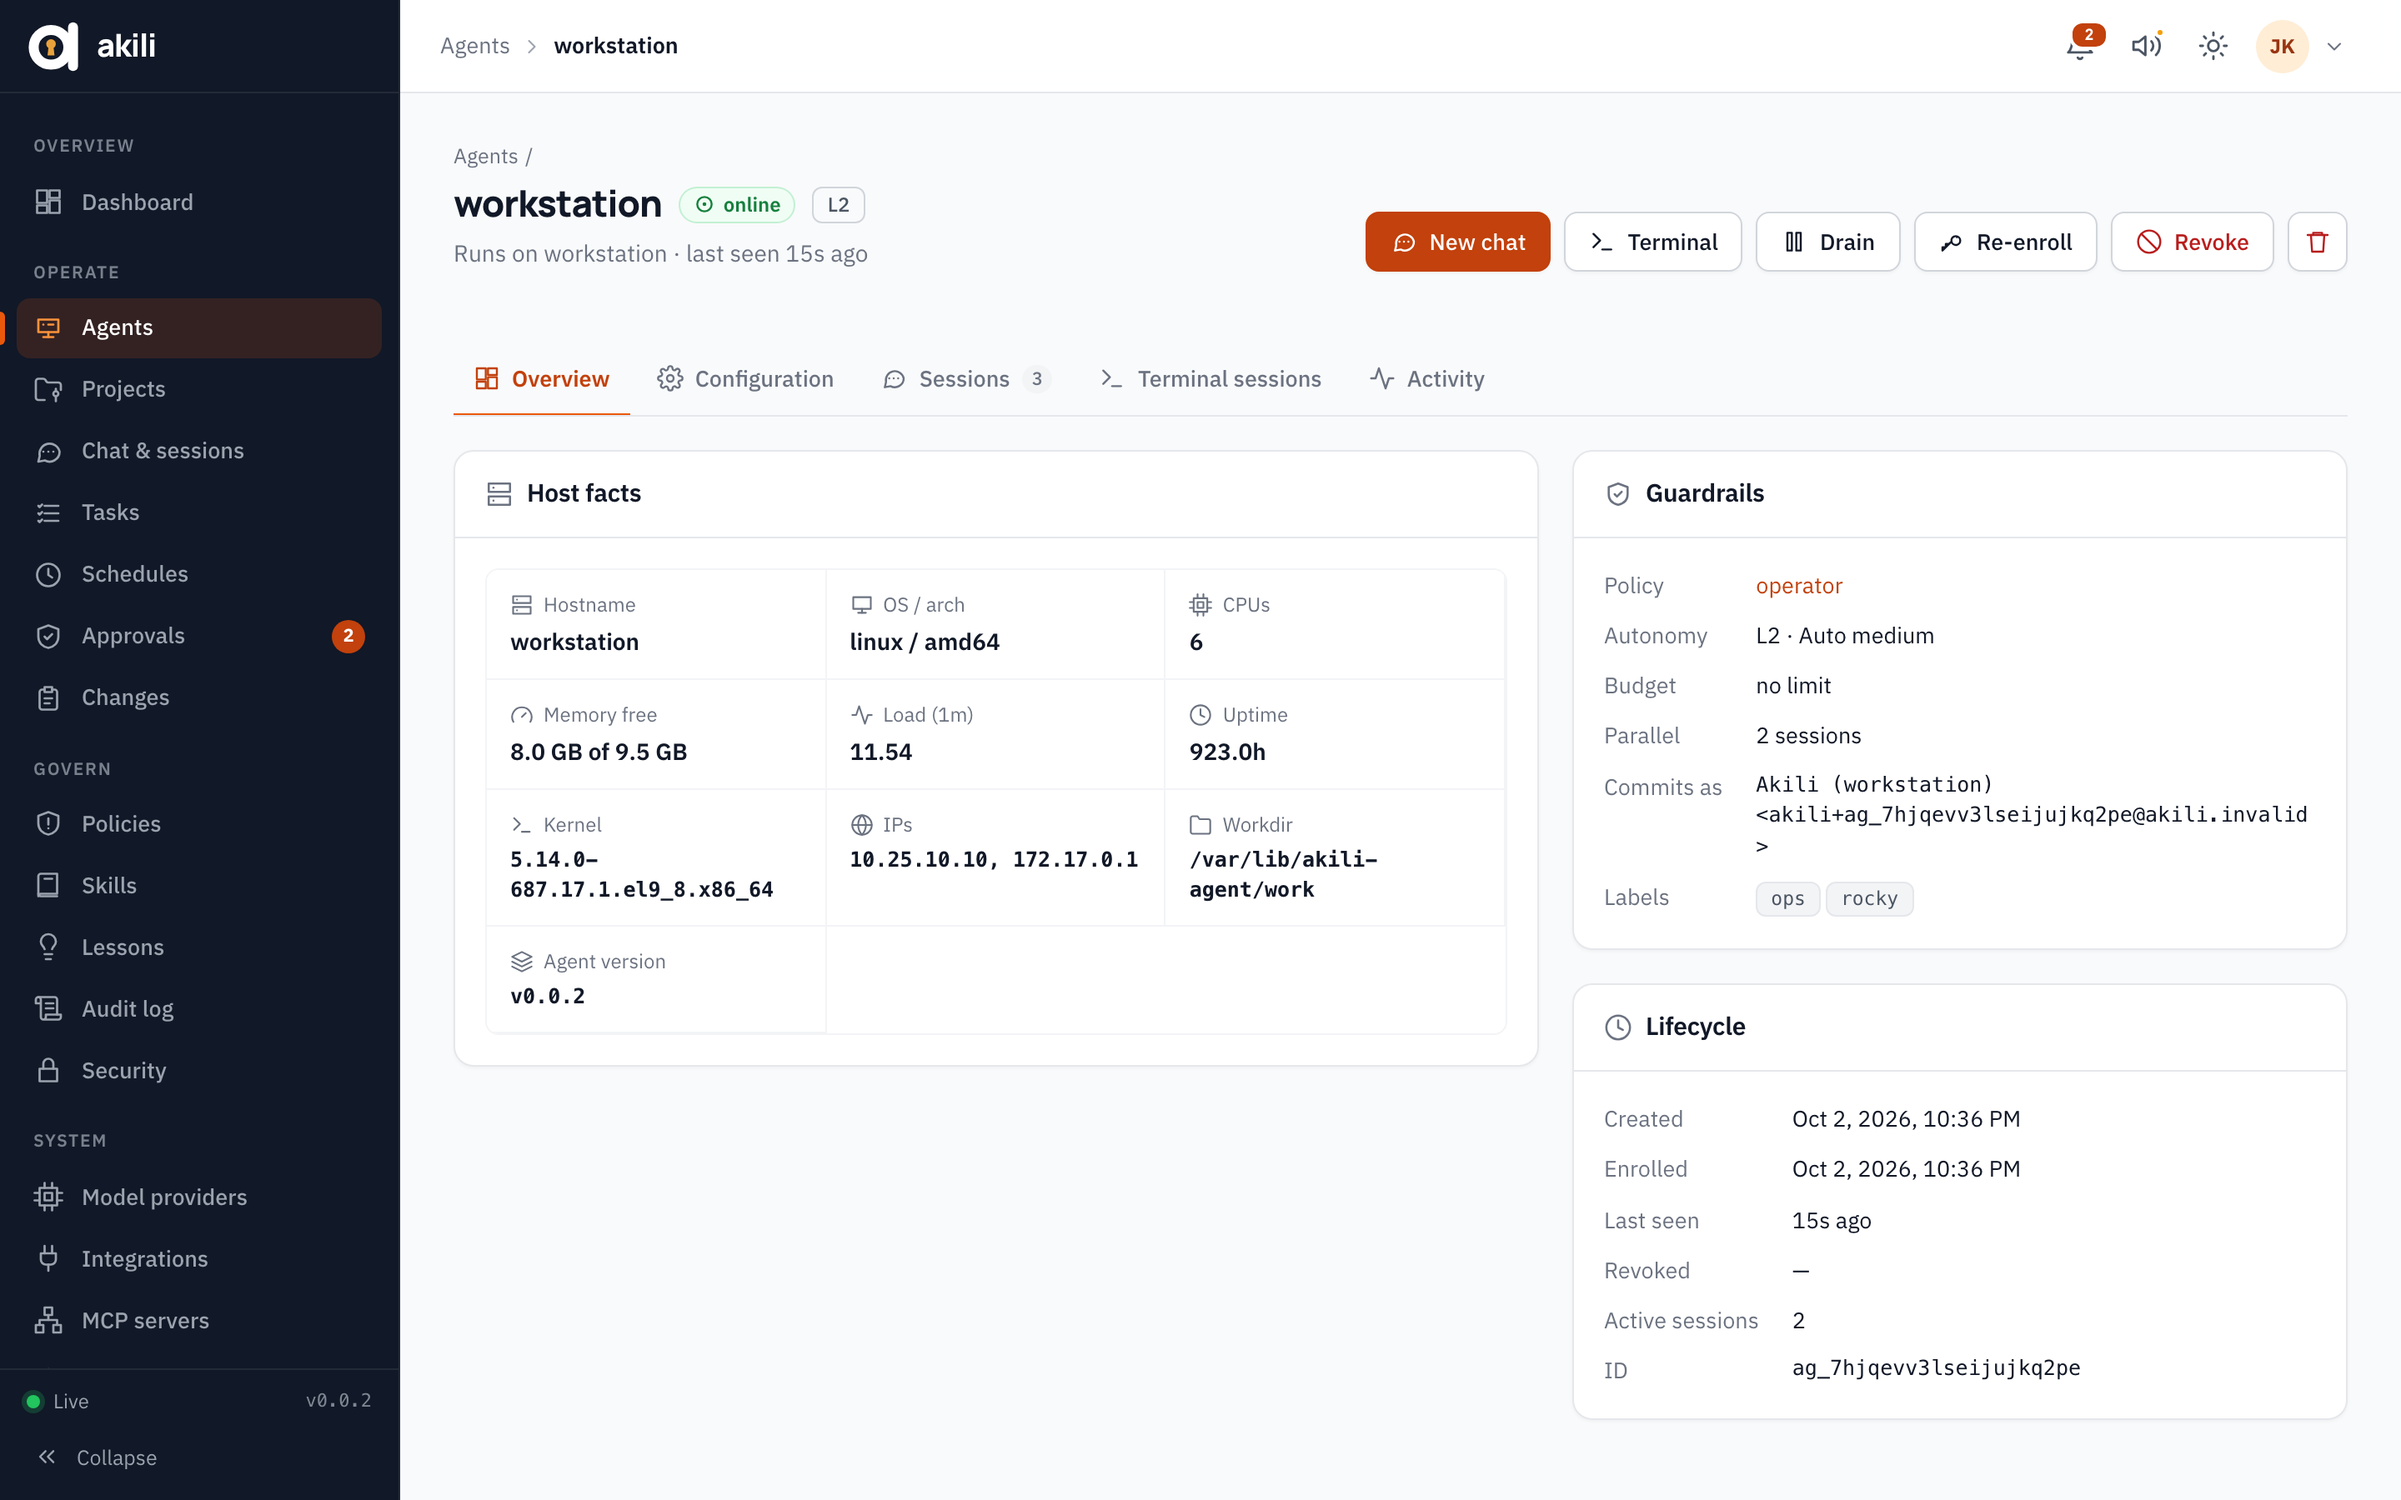
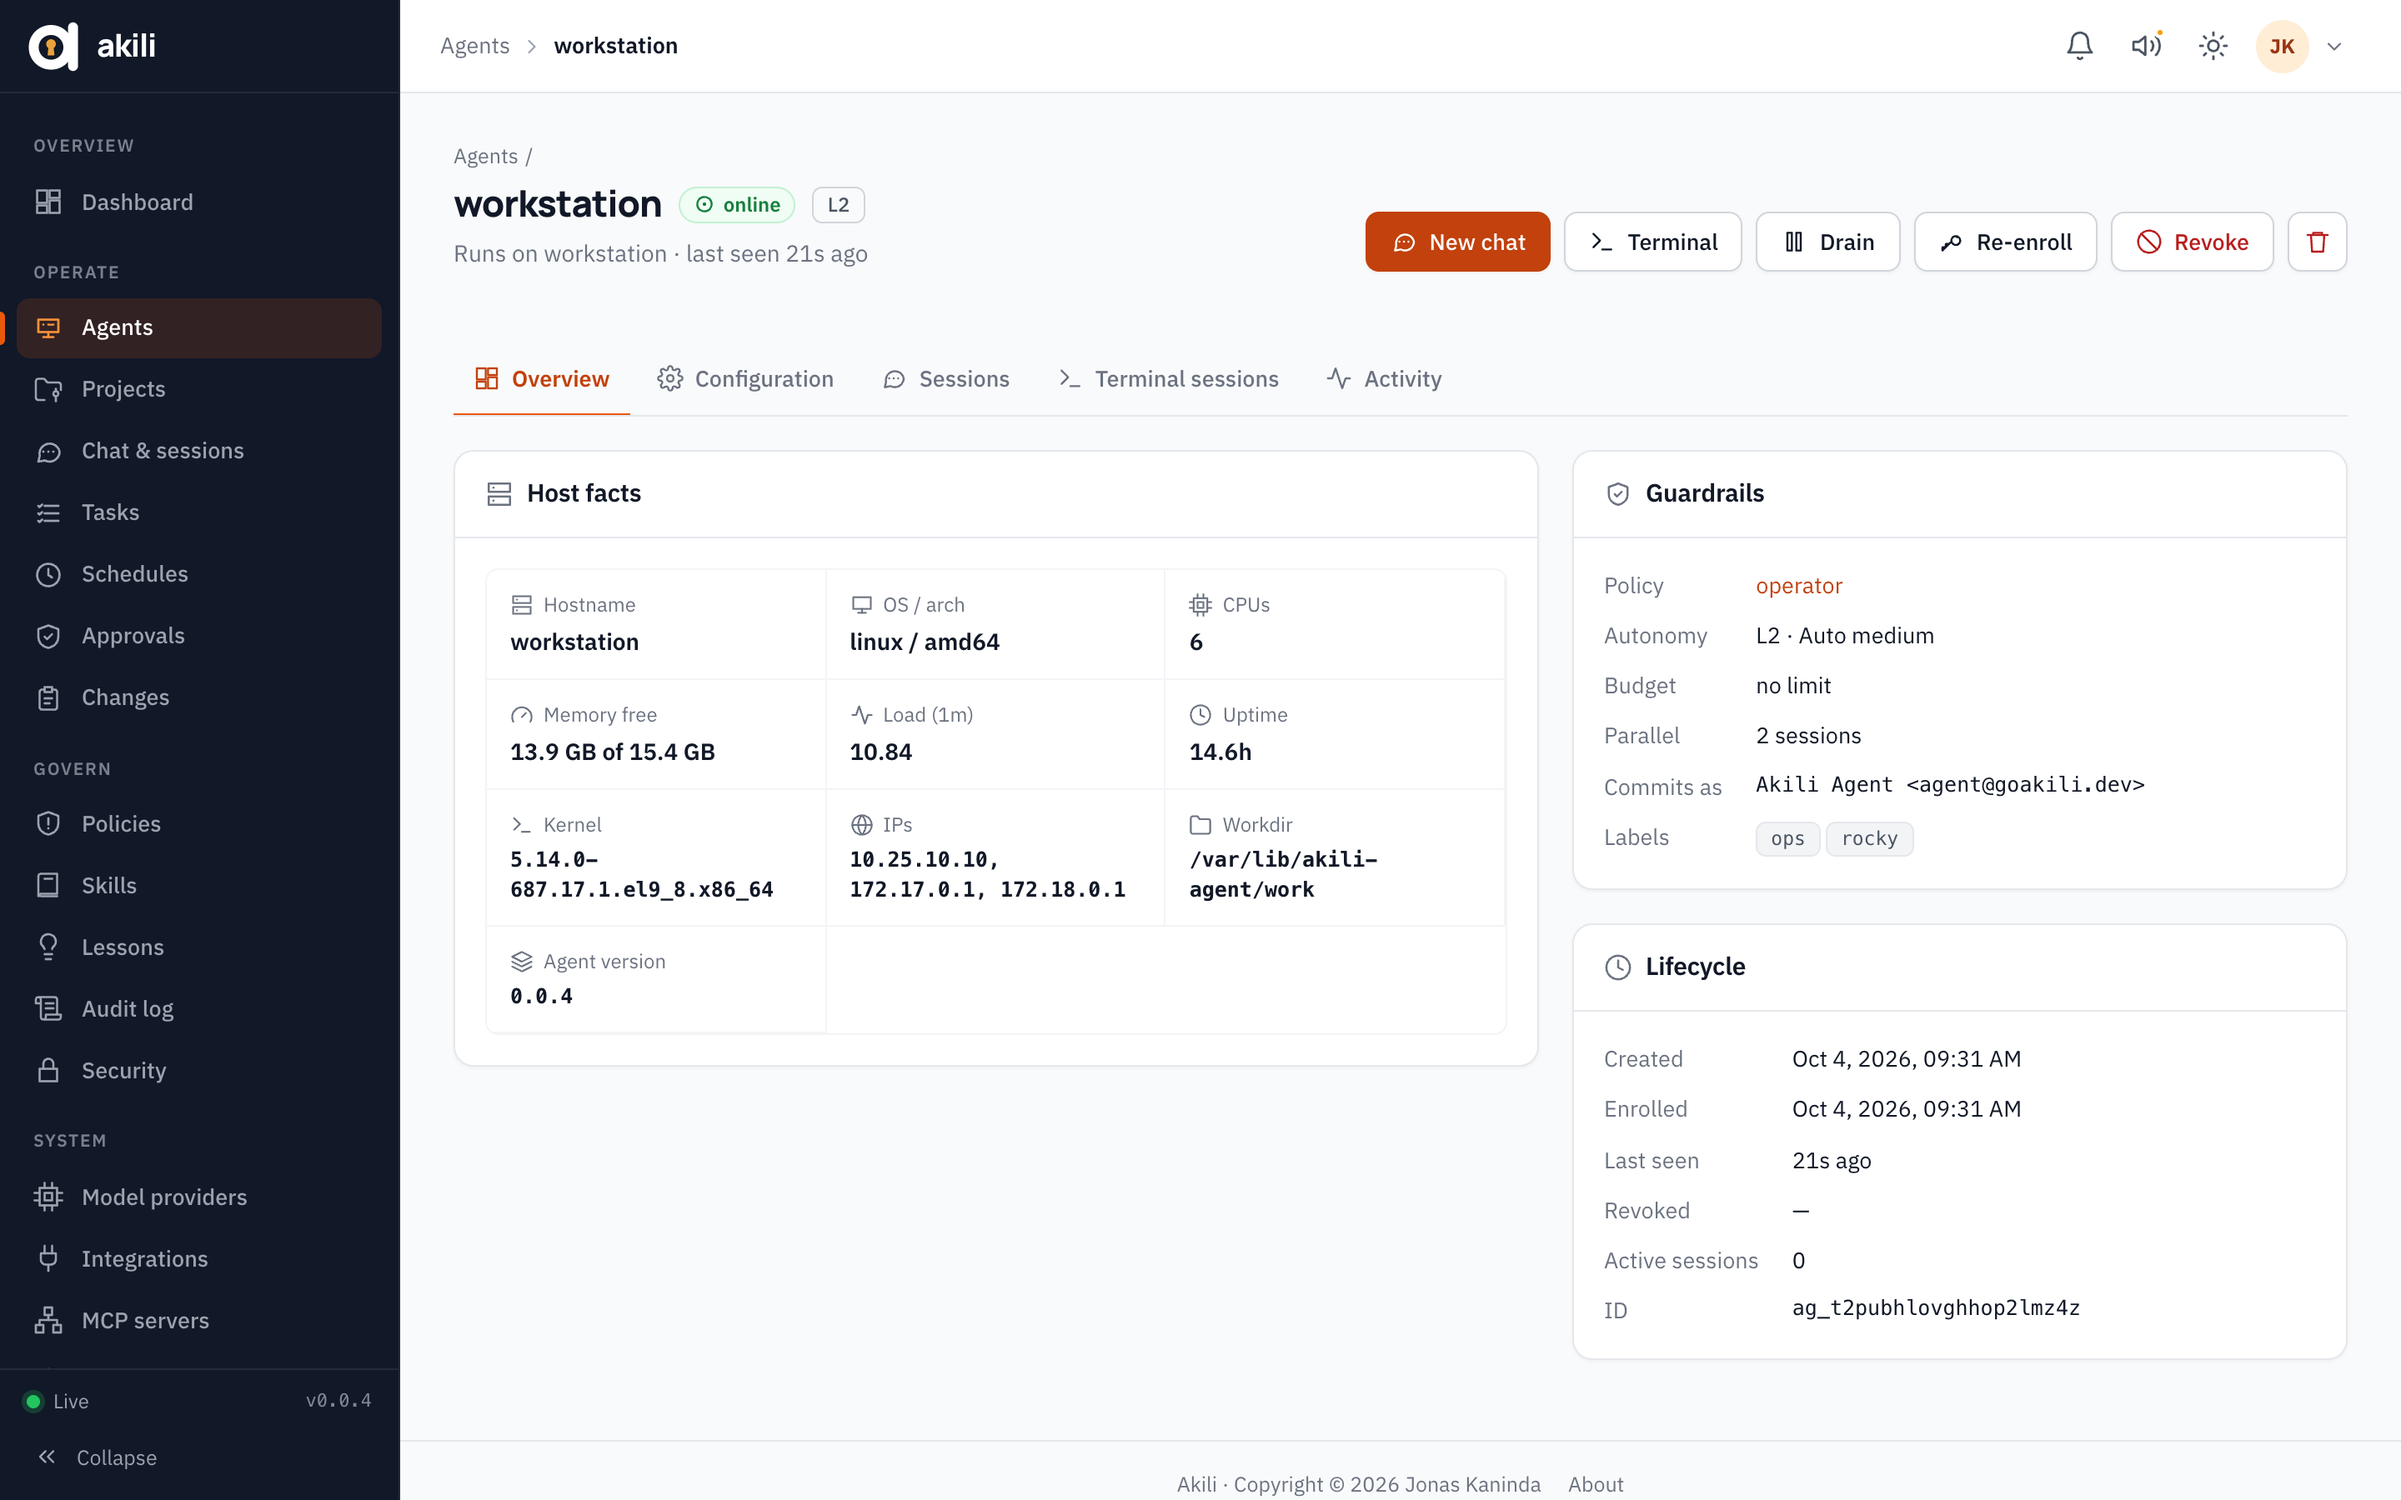
fix(web): use defined colour tokens in plans and the VS Code sidebar docs: screenshots of plans and project tasks, retake the agent page

diff --git a/web/src/components/ProjectPlansTab.vue b/web/src/components/ProjectPlansTab.vue
@@ -439,7 +439,7 @@ async function remove() {
   padding: 0;
 }
 .plan-list > li + li {
-  border-top: 1px solid var(--border);
+  border-top: 1px solid var(--border-primary);
 }
 .plan-row {
   display: flex;
@@ -456,7 +456,7 @@ async function remove() {
 }
 .plan-row:hover,
 .plan-row:focus-visible {
-  background: var(--surface-2, rgba(127, 127, 127, 0.06));
+  background: var(--bg-hover);
 }
 .plan-row-main {
   display: flex;
@@ -483,7 +483,7 @@ async function remove() {
   width: 160px;
   height: 6px;
   border-radius: 3px;
-  background: var(--border);
+  background: var(--border-input);
   overflow: hidden;
 }
 .plan-progress.compact .plan-bar {
@@ -492,7 +492,7 @@ async function remove() {
 .plan-bar > span {
   display: block;
   height: 100%;
-  background: var(--ok, #2e9e5b);
+  background: var(--success-500);
   transition: width 0.2s;
 }
 .plan-filters {
@@ -505,7 +505,7 @@ async function remove() {
   padding: 0;
   display: flex;
   flex-direction: column;
-  border: 1px solid var(--border);
+  border: 1px solid var(--border-primary);
   border-radius: 8px;
 }
 .plan-phase {
@@ -515,11 +515,11 @@ async function remove() {
   padding: 10px 12px;
 }
 .plan-phase + .plan-phase {
-  border-top: 1px solid var(--border);
+  border-top: 1px solid var(--border-primary);
 }
 .plan-phase.done .plan-phase-title,
 .plan-phase.skipped .plan-phase-title {
-  color: var(--text-3);
+  color: var(--text-tertiary);
   text-decoration: line-through;
 }
 .plan-check {
@@ -539,7 +539,7 @@ async function remove() {
   display: flex;
   gap: 5px;
   align-items: baseline;
-  color: var(--text-2);
+  color: var(--text-secondary);
 }
 .plan-phase-tasks {
   list-style: none;
@@ -560,7 +560,7 @@ async function remove() {
   flex: none;
 }
 .plan-phase-note {
-  color: var(--text-2);
+  color: var(--text-secondary);
 }
 .plan-skip {
   gap: 6px;

diff --git a/web/src/vscode/vscode.css b/web/src/vscode/vscode.css
@@ -39,7 +39,7 @@ body {
 }
 
 .vsc-head {
-  border-bottom: 1px solid var(--border);
+  border-bottom: 1px solid var(--border-primary);
 }
 .vsc-project {
   display: flex;
@@ -66,10 +66,10 @@ body {
   width: 7px;
   height: 7px;
   border-radius: 50%;
-  background: var(--text-3, #888);
+  background: var(--text-tertiary);
 }
 .dot.online {
-  background: var(--ok, #2e9e5b);
+  background: var(--success-500);
 }
 .vsc-tabs {
   display: flex;
@@ -91,7 +91,7 @@ body {
 }
 .vsc-tabs button.on {
   opacity: 1;
-  border-bottom-color: var(--accent, var(--vscode-focusBorder));
+  border-bottom-color: var(--primary-500);
   font-weight: 600;
 }
 .count {
@@ -127,7 +127,7 @@ body {
   align-items: center;
   gap: 4px;
   padding: 4px 6px;
-  border-bottom: 1px solid var(--border);
+  border-bottom: 1px solid var(--border-primary);
 }
 .vsc-bar-title {
   flex: 1;
@@ -161,7 +161,7 @@ body {
 }
 .vsc-filters button {
   background: none;
-  border: 1px solid var(--border);
+  border: 1px solid var(--border-primary);
   border-radius: 12px;
   padding: 2px 10px;
   font-size: 12px;
@@ -216,11 +216,11 @@ body {
 }
 .vsc-state {
   font-size: 11px;
-  color: var(--accent, var(--vscode-textLink-foreground));
+  color: var(--primary-500);
   white-space: nowrap;
 }
 .vsc-task {
-  border: 1px solid var(--border);
+  border: 1px solid var(--border-primary);
   border-radius: 6px;
   padding: 6px 8px;
   display: flex;
@@ -267,7 +267,7 @@ body {
   align-items: center;
   gap: 8px;
   padding: 6px 8px;
-  border-top: 1px solid var(--border);
+  border-top: 1px solid var(--border-primary);
 }
 .vsc-avatar {
   flex: none;

diff --git a/web/src/components/NewTaskModal.vue b/web/src/components/NewTaskModal.vue
@@ -43,7 +43,7 @@ async function create(draft = false) {
   creating.value = true
   try {
     const t = await api.createTask({ ...taskInput(form.value), ...(draft ? { draft: true } : {}) })
-    toast.success(draft ? `Draft saved: ${t.title || 'untitled'}. Start it from the task list.` : `Task queued: ${t.title || 'untitled'}`)
+    toast.success(draft ? `Draft saved: ${t.title || 'untitled'}. Start it when you are ready.` : `Task queued: ${t.title || 'untitled'}`)
     emit('created', t)
   } catch {
     /* toasted */

diff --git a/web/src/components/PlanPhasesEditor.vue b/web/src/components/PlanPhasesEditor.vue
@@ -88,7 +88,7 @@ function remove(i: number) {
   padding-top: 8px;
   text-align: right;
   font-variant-numeric: tabular-nums;
-  color: var(--text-3);
+  color: var(--text-tertiary);
   font-size: 12px;
 }
 .phases-edit-fields {

diff --git a/README.md b/README.md
@@ -440,6 +440,7 @@ Settings come from environment variables. On start the server also loads `./.env
 | <img src="docs/screenshots/agents.png" alt="Agents"> **Agents**: status, host and policy of every agent | <img src="docs/screenshots/agent-detail.png" alt="Agent detail"> **Agent**: host facts, guardrails and lifecycle |
 | <img src="docs/screenshots/tasks.png" alt="Tasks"> **Tasks**: work in flight and its outcome | <img src="docs/screenshots/change.png" alt="Change plan"> **Change plan**: why, what runs, and its approval |
 | <img src="docs/screenshots/policies.png" alt="Policies"> **Policies**: what each agent may do | <img src="docs/screenshots/audit.png" alt="Audit log"> **Audit log**: hash-chained, every decision recorded |
+| <img src="docs/screenshots/plan.png" alt="Plan"> **Plan**: phases, when each is done, and what agents finished | <img src="docs/screenshots/project-tasks.png" alt="Project tasks"> **Project tasks**: drafts, linked plans and pull requests |
 
 ## License
 
